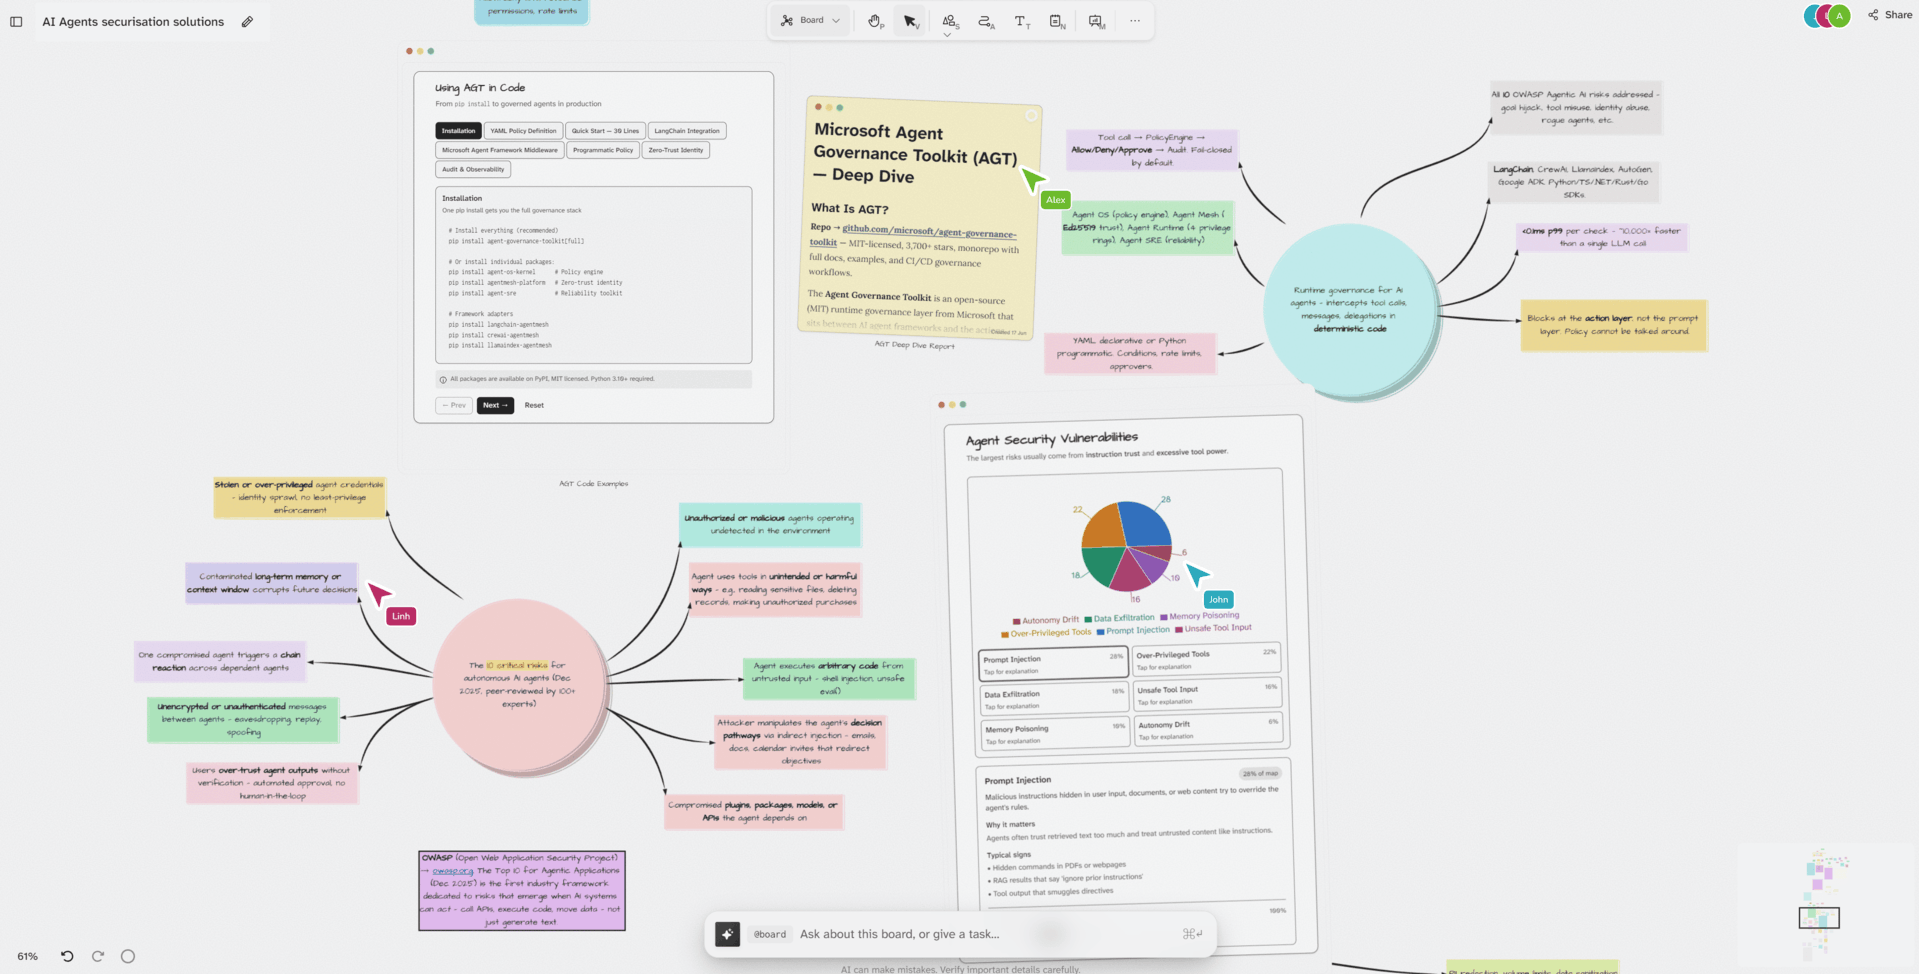
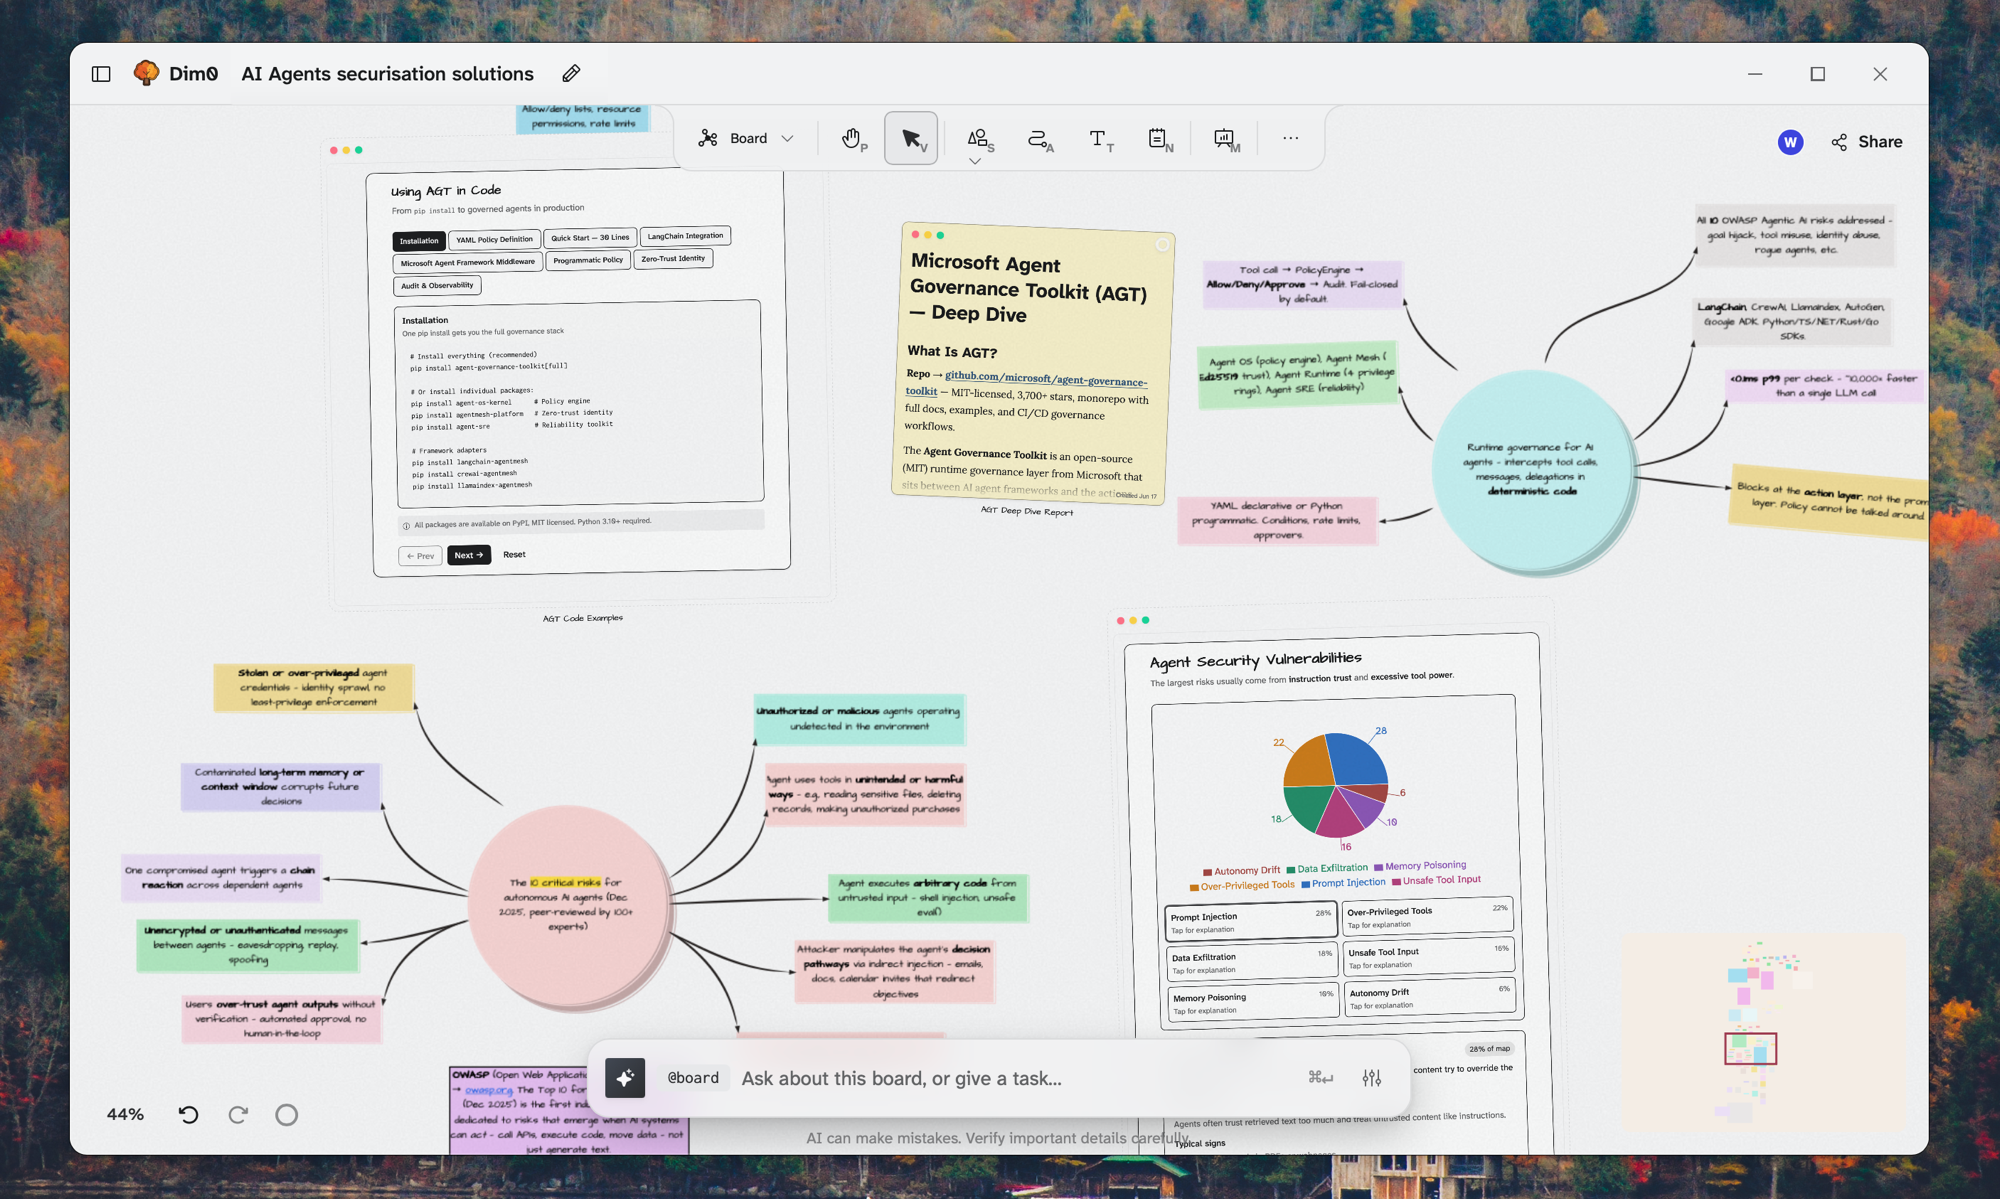
update hero screenshot to AI Agents board
Swap the hero product shot for the AI Agents securisation board
and update the Image dimensions to 2000x1199 to match the new
aspect ratio.

diff --git a/app/(dim0)/page.tsx b/app/(dim0)/page.tsx
@@ -266,8 +266,8 @@ function ProductShot() {
           src="/home-screenshot-2.png"
           alt="A Dim0 board showing nested research, sticky notes, code, charts, and an AI agent panel"
           className="product-shot-img"
-          width={1919}
-          height={974}
+          width={2000}
+          height={1199}
           sizes="(max-width: 1240px) 100vw, 1240px"
         />
         <span className="product-shot-tag">
